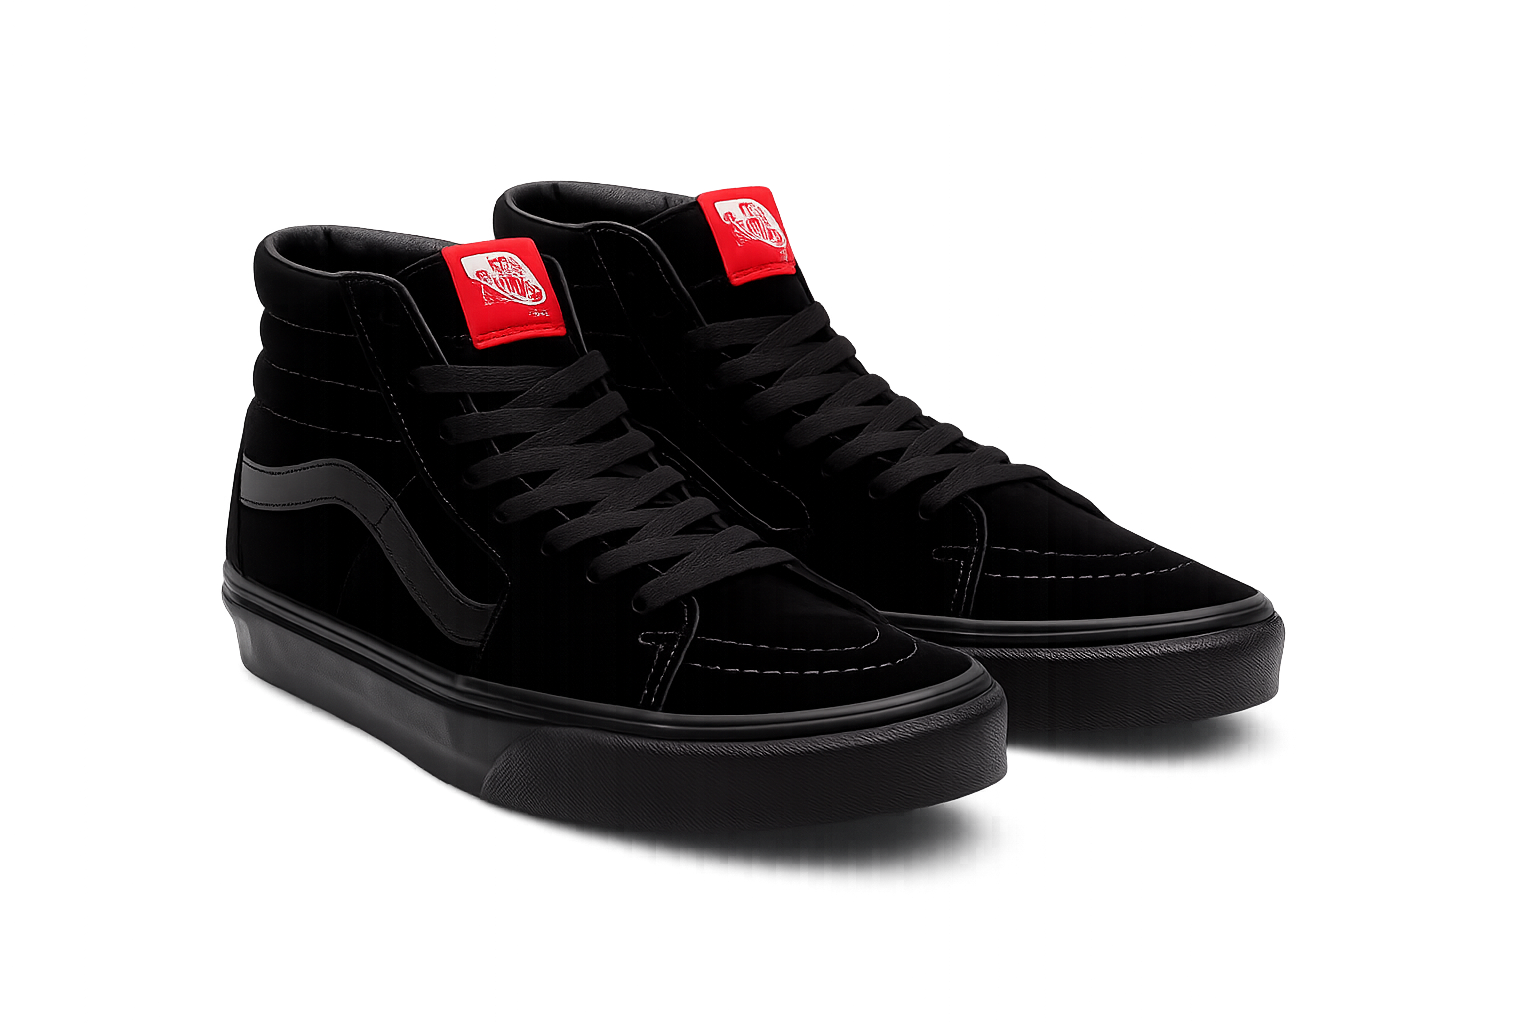
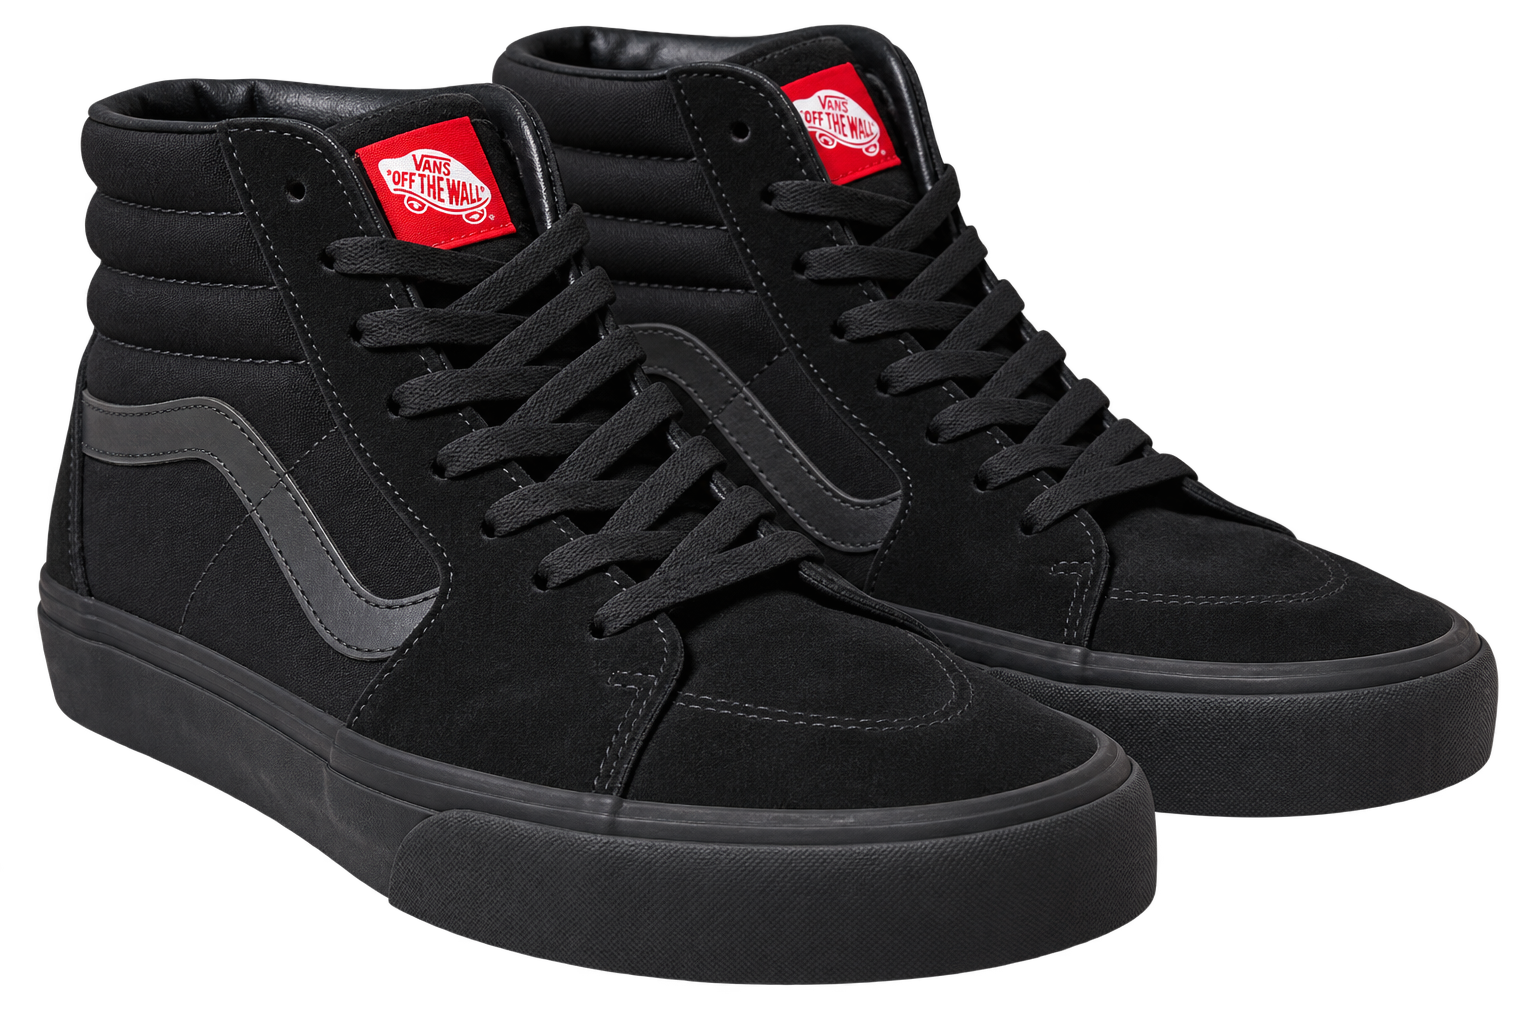
Implementa Generar v2 (criterios simplificados), migra prendas existentes al vocabulario cerrado, y reemplaza las zapatillas de prueba por las 8 reales
Generar v2 (js/generar.js, a pedido explícito del usuario):
- Se elimina 'Estación' del panel — Clima (frío/templado/calor) matchea
  directo contra climas de cada prenda, sin MAPA_CLIMA/MAPA_ESTACION
- Tren superior pasa a Remera / Buzo (antes remera/buzo/campera — campera ya
  no es parte de esta fila, se mudó a la rueda semicircular)
- Ocasión pasa de lista abierta multi-select a cerrada de una sola opción:
  casual / salida / estar en casa / deporte
- Estilo (nuevo, reemplaza la lista libre de antes): streetwear /
  alternativo / minimalista / relax, también de una sola opción
- Color no cambia
- puntuarPrenda ahora compara clima/estilo/ocasion (un valor c/u) en vez de
  Set/array — js/random.js actualizado para armar criterios compatibles
  (unoAlAzar elige un valor al azar de cada campo de la prenda ancla)

Migración al vocabulario v2: las 8 gorras + 3 remeras + 3 pantalones ya
cargados se re-taguearon (climas/estilos/ocasiones) para seguir matcheando
bien contra los nuevos chips cerrados del panel.

Zapatillas reales: borradas las 3 de prueba (Vans Sk8-Hi, Timberland, Vans
Half Cab viejas) y cargadas 8 nuevas con tags completos, incluyendo el
contexto real de uso que dio el usuario (Gazelle=día a día, Ultraboost=
deporte, las 2 Havaianas=verano/estar en casa, Birkenstock=mucho estar en
casa, los 2 Vans=salidas a lugares que se pueden ensuciar, Timberland=
salidas puntuales por ahora). Tamaño calibrado por canal alpha + ancho
[…]

diff --git a/js/generar.js b/js/generar.js
@@ -4,22 +4,17 @@
 // vuelve a generar con los MISMOS criterios, no repite una prenda ya
 // mostrada hasta agotar las opciones de esa categoría.
 //
-// Nota: "Buzo" y "Campera" en Tren superior todavía no tienen prendas
-// cargadas (solo hay remeras) — al elegirlos no va a encontrar nada hasta
-// que sumemos esas prendas.
-
-const MAPA_CLIMA = {
-  frio: ["invierno", "invierno templado"],
-  templado: ["entretiempo", "invierno templado", "otonio", "primavera"],
-  calor: ["verano", "primavera"],
-};
-
-const MAPA_ESTACION = {
-  verano: ["verano"],
-  otonio: ["otonio"],
-  invierno: ["invierno", "invierno templado"],
-  primavera: ["primavera"],
-};
+// v2 (9-ago-2026, a pedido del usuario): criterios simplificados.
+// - "Estación" se elimina del panel — Clima (frío/templado/calor) matchea
+//   directo contra `climas` de cada prenda, sin mapa de traducción.
+// - "Tren superior" pasa a Remera / Buzo (Campera se mudó a su propio
+//   widget — la rueda semicircular, ver js/rueda.js — ya no es parte de
+//   esta fila ni de este criterio).
+// - "Ocasión" y "Estilo" pasan de listas abiertas multi-select a listas
+//   CERRADAS de una sola opción: Ocasión = casual/salida/estar en casa/
+//   deporte. Estilo = streetwear/alternativo/minimalista/relax (relax =
+//   vibra playera/surf).
+// - "Color" no cambió: sigue siendo dinámico según lo cargado, hasta 3.
 
 const vistosPorCategoria = { gorras: new Set(), remeras: new Set(), pantalones: new Set(), zapatillas: new Set() };
 let ultimoCriteriosHash = null;
@@ -29,10 +24,8 @@ document.addEventListener("ropero:listo", inicializarPanelGenerar);
 function inicializarPanelGenerar() {
   const datos = window.Ropero.datos;
   const coloresDisponibles = valoresUnicos(datos, "colores");
-  const estilosDisponibles = valoresUnicos(datos, "estilos");
-  const ocasionesDisponibles = valoresUnicos(datos, "ocasiones");
 
-  construirPanel(coloresDisponibles, estilosDisponibles, ocasionesDisponibles);
+  construirPanel(coloresDisponibles);
 
   const overlay = document.getElementById("overlay-generar");
   const panel = document.getElementById("panel-generar");
@@ -86,8 +79,8 @@ function valoresUnicos(datos, campo) {
   return [...set].sort();
 }
 
-function construirPanel(colores, estilos, ocasiones) {
-  const chip = (valor, label) => `<button class="pg-chip" data-valor="${valor}">${label || valor}</button>`;
+function construirPanel(colores) {
+  const chip = (valor, label, activo) => `<button class="pg-chip${activo ? " activo" : ""}" data-valor="${valor}">${label || valor}</button>`;
 
   const html = `
     <div id="overlay-generar" class="overlay-generar"></div>
@@ -100,9 +93,8 @@ function construirPanel(colores, estilos, ocasiones) {
         <section class="pg-seccion">
           <h4>Tren superior</h4>
           <div class="pg-chips" data-grupo="tipoSuperior">
-            <button class="pg-chip activo" data-valor="remera">Remera</button>
+            ${chip("remera", "Remera", true)}
             ${chip("buzo", "Buzo")}
-            ${chip("campera", "Campera")}
           </div>
         </section>
         <section class="pg-seccion">
@@ -112,21 +104,15 @@ function construirPanel(colores, estilos, ocasiones) {
           </div>
         </section>
         <section class="pg-seccion">
-          <h4>Estación</h4>
-          <div class="pg-chips" data-grupo="estacion">
-            ${chip("verano", "Verano")}${chip("otonio", "Otoño")}${chip("invierno", "Invierno")}${chip("primavera", "Primavera")}
-          </div>
-        </section>
-        <section class="pg-seccion">
           <h4>Ocasión</h4>
-          <div class="pg-chips" data-grupo="ocasiones" data-multi="true">
-            ${ocasiones.map((o) => chip(o)).join("")}
+          <div class="pg-chips" data-grupo="ocasion">
+            ${chip("casual", "Casual")}${chip("salida", "Salida")}${chip("estar en casa", "Estar en casa")}${chip("deporte", "Deporte")}
           </div>
         </section>
         <section class="pg-seccion">
           <h4>Estilo</h4>
-          <div class="pg-chips" data-grupo="estilos" data-multi="true">
-            ${estilos.map((e) => chip(e)).join("")}
+          <div class="pg-chips" data-grupo="estilo">
+            ${chip("streetwear", "Streetwear")}${chip("alternativo", "Alternativo")}${chip("minimalista", "Minimalista")}${chip("relax", "Relax")}
           </div>
         </section>
         <section class="pg-seccion">
@@ -153,29 +139,29 @@ function leerCriterios(panel) {
     return [...panel.querySelectorAll(`.pg-chips[data-grupo="${grupo}"] .pg-chip.activo`)].map((c) => c.dataset.valor);
   }
 
-  const clima = seleccionUnica("clima");
-  const estacion = seleccionUnica("estacion");
-  const climaObjetivo = new Set([...(MAPA_CLIMA[clima] || []), ...(MAPA_ESTACION[estacion] || [])]);
-
   return {
     tipoSuperior: seleccionUnica("tipoSuperior") || "remera",
-    climaObjetivo,
-    ocasiones: seleccionMultiple("ocasiones"),
-    estilos: seleccionMultiple("estilos"),
+    clima: seleccionUnica("clima"), // "frio" | "templado" | "calor" | null
+    ocasion: seleccionUnica("ocasion"), // string | null
+    estilo: seleccionUnica("estilo"), // string | null
     colores: seleccionMultiple("colores"),
   };
 }
 
+// Cada prenda puede tener MÁS de un valor en climas/estilos/ocasiones (ej.
+// una gorra que sirve para calor y templado) — el criterio elegido en el
+// panel es siempre uno solo, así que matchea si está incluido en la lista
+// de la prenda.
 function puntuarPrenda(prenda, criterios) {
   let score = 0;
-  if (criterios.climaObjetivo.size) {
-    score += (prenda.climas || []).filter((c) => criterios.climaObjetivo.has(c)).length;
+  if (criterios.clima) {
+    score += (prenda.climas || []).includes(criterios.clima) ? 1 : 0;
   }
-  if (criterios.estilos.length) {
-    score += (prenda.estilos || []).filter((e) => criterios.estilos.includes(e)).length;
+  if (criterios.estilo) {
+    score += (prenda.estilos || []).includes(criterios.estilo) ? 1 : 0;
   }
-  if (criterios.ocasiones.length) {
-    score += (prenda.ocasiones || []).filter((o) => criterios.ocasiones.includes(o)).length;
+  if (criterios.ocasion) {
+    score += (prenda.ocasiones || []).includes(criterios.ocasion) ? 1 : 0;
   }
   if (criterios.colores.length) {
     score += (prenda.colores || []).filter((c) => criterios.colores.includes(c)).length;
@@ -212,9 +198,9 @@ function elegirPrenda(categoria, candidatos, criterios) {
 function generarOutfit(criterios) {
   const hash = JSON.stringify({
     t: criterios.tipoSuperior,
-    c: [...criterios.climaObjetivo].sort(),
-    o: criterios.ocasiones.slice().sort(),
-    e: criterios.estilos.slice().sort(),
+    c: criterios.clima,
+    o: criterios.ocasion,
+    e: criterios.estilo,
     col: criterios.colores.slice().sort(),
   });
   if (hash !== ultimoCriteriosHash) {
@@ -223,8 +209,8 @@ function generarOutfit(criterios) {
   }
 
   const datos = window.Ropero.datos;
-  // "tipo" viene de la base (remera/buzo/campera); si alguna prenda vieja no
-  // lo tuviera todavía, la tratamos como remera por defecto.
+  // "tipo" viene de la base (remera/buzo); si alguna prenda vieja no lo
+  // tuviera todavía, la tratamos como remera por defecto.
   const candidatosRemera = datos.remeras.filter((r) => (r.tipo || "remera") === criterios.tipoSuperior);
 
   const elegidos = {
@@ -245,7 +231,7 @@ function generarOutfit(criterios) {
   });
 
   if (criterios.tipoSuperior !== "remera" && !elegidos.remeras) {
-    // Todavía no hay buzos/camperas cargados; no rompemos nada, solo avisamos.
+    // Todavía no hay buzos cargados; no rompemos nada, solo avisamos.
     console.warn(`Todavía no hay prendas de tipo "${criterios.tipoSuperior}" cargadas.`);
   }
 }

diff --git a/js/app.js b/js/app.js
@@ -22,9 +22,14 @@ const ALTURA_VH_DESKTOP = {
   "img/gorras/yankees-roja-snapback.png": 7.8235,
   "img/gorras/padres-marron-fitted.png": 7.9188,
   "img/gorras/dodgers-negra.png": 7.9673,
-  "img/zapatillas/vans-skhi-negra.png": 12.1,
-  "img/zapatillas/timberland-miel.png": 10.02,
-  "img/zapatillas/vans-halfcab-negra.png": 19.5,
+  "img/zapatillas/vans-halfcab-negra.png": 8.8083,
+  "img/zapatillas/havaianas-terracota.png": 8.6311,
+  "img/zapatillas/vans-skhi-negra.png": 8.8203,
+  "img/zapatillas/havaianas-amarillas.png": 8.8203,
+  "img/zapatillas/timberland-miel.png": 8.7603,
+  "img/zapatillas/adidas-ultraboost-negra.png": 8.6023,
+  "img/zapatillas/birkenstock-boston-marron.png": 8.7782,
+  "img/zapatillas/adidas-gazelle-gris.png": 12.6973,
 };
 
 const ALTURA_VH_MOBILE = {
@@ -36,9 +41,14 @@ const ALTURA_VH_MOBILE = {
   "img/gorras/yankees-roja-snapback.png": 9.3068,
   "img/gorras/padres-marron-fitted.png": 9.4202,
   "img/gorras/dodgers-negra.png": 9.4779,
-  "img/zapatillas/vans-skhi-negra.png": 14.4,
-  "img/zapatillas/timberland-miel.png": 11.92,
-  "img/zapatillas/vans-halfcab-negra.png": 23.2,
+  "img/zapatillas/vans-halfcab-negra.png": 10.4802,
+  "img/zapatillas/havaianas-terracota.png": 10.2695,
+  "img/zapatillas/vans-skhi-negra.png": 10.4945,
+  "img/zapatillas/havaianas-amarillas.png": 10.4945,
+  "img/zapatillas/timberland-miel.png": 10.4232,
+  "img/zapatillas/adidas-ultraboost-negra.png": 10.2352,
+  "img/zapatillas/birkenstock-boston-marron.png": 10.4445,
+  "img/zapatillas/adidas-gazelle-gris.png": 15.1075,
 };
 
 // Registro global chico: js/generar.js lo usa para leer las prendas

diff --git a/js/random.js b/js/random.js
@@ -37,6 +37,11 @@ function generarOutfitRandom() {
   });
 }
 
+function unoAlAzar(arr) {
+  if (!arr || !arr.length) return null;
+  return arr[Math.floor(Math.random() * arr.length)];
+}
+
 // Elige una prenda ancla al azar y arma el resto del outfit puntuando cada
 // candidato contra los tags de esa ancla (misma idea que Generar, pero el
 // "criterio" no lo elige el usuario a mano: sale de una prenda real).
@@ -45,10 +50,15 @@ function armarOutfitRandomUnaVez(datos) {
   const candidatosAncla = datos[categoriaAncla];
   const ancla = candidatosAncla[Math.floor(Math.random() * candidatosAncla.length)];
 
+  // v2: puntuarPrenda (generar.js) ahora espera clima/estilo/ocasion como un
+  // solo valor cada uno (el panel Generar pasó a ser de una sola opción por
+  // criterio) en vez de un Set/array. La prenda ancla puede tener varios
+  // valores en cada campo (ej. climas:["calor","templado"]) — se elige uno
+  // al azar de cada uno para armar el criterio "de una sola opción".
   const criteriosAncla = {
-    climaObjetivo: new Set(ancla.climas || []),
-    estilos: ancla.estilos || [],
-    ocasiones: ancla.ocasiones || [],
+    clima: unoAlAzar(ancla.climas),
+    estilo: unoAlAzar(ancla.estilos),
+    ocasion: unoAlAzar(ancla.ocasiones),
     colores: ancla.colores || [],
   };
 

diff --git a/js/dataStore.js b/js/dataStore.js
@@ -69,6 +69,10 @@ async function crearGorra(gorra) {
 async function listarZapatillas() {
   const client = getSupabaseClient();
   if (!client) return [];
+  // creado_en de las 8 zapatillas reales se ajustó a mano (9-ago-2026) para
+  // que el orden al deslizar sea el que pidió el usuario (Gazelle,
+  // Birkenstock, Ultraboost, los 2 Vans, Timberland, las 2 Havaianas) — no
+  // refleja el momento real en que se cargó cada una.
   const { data, error } = await client
     .from("zapatillas")
     .select("*")
